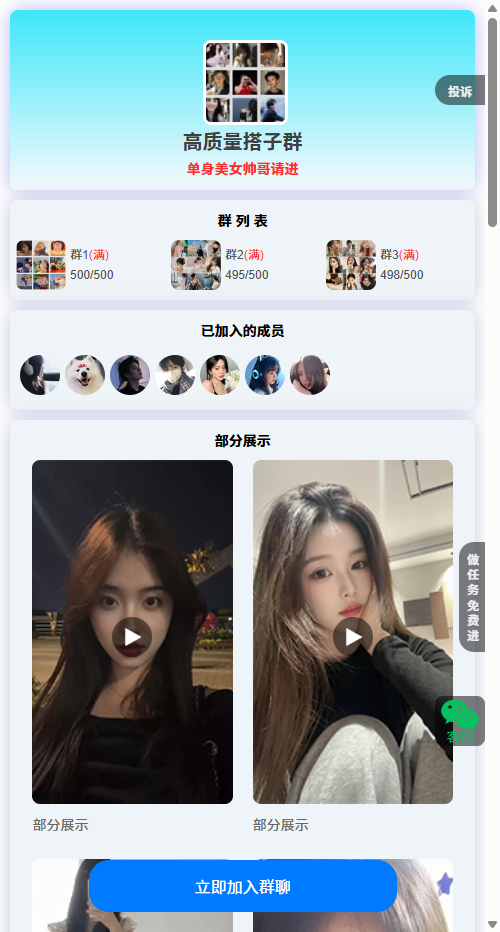
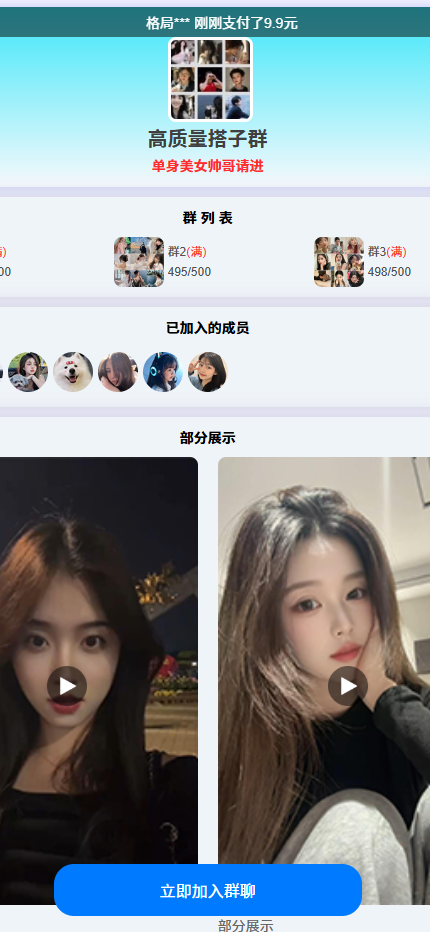
[节点54] 修复模板手机缩略图显示不全与底部黑边问题

diff --git a/admin/moban.php b/admin/moban.php
@@ -364,7 +364,7 @@ $conn->close();
             height: 100%;
             border-radius: 35px;
             overflow: hidden;
-            background: #0a0a0a;
+            background: #f5f7ff;
             border: 1px solid rgba(255, 255, 255, 0.09);
         }
 
@@ -374,7 +374,7 @@ $conn->close();
             object-fit: contain;
             object-position: center top;
             display: block;
-            background: #10131a;
+            background: transparent;
         }
 
         .iphone17-pro-island {
